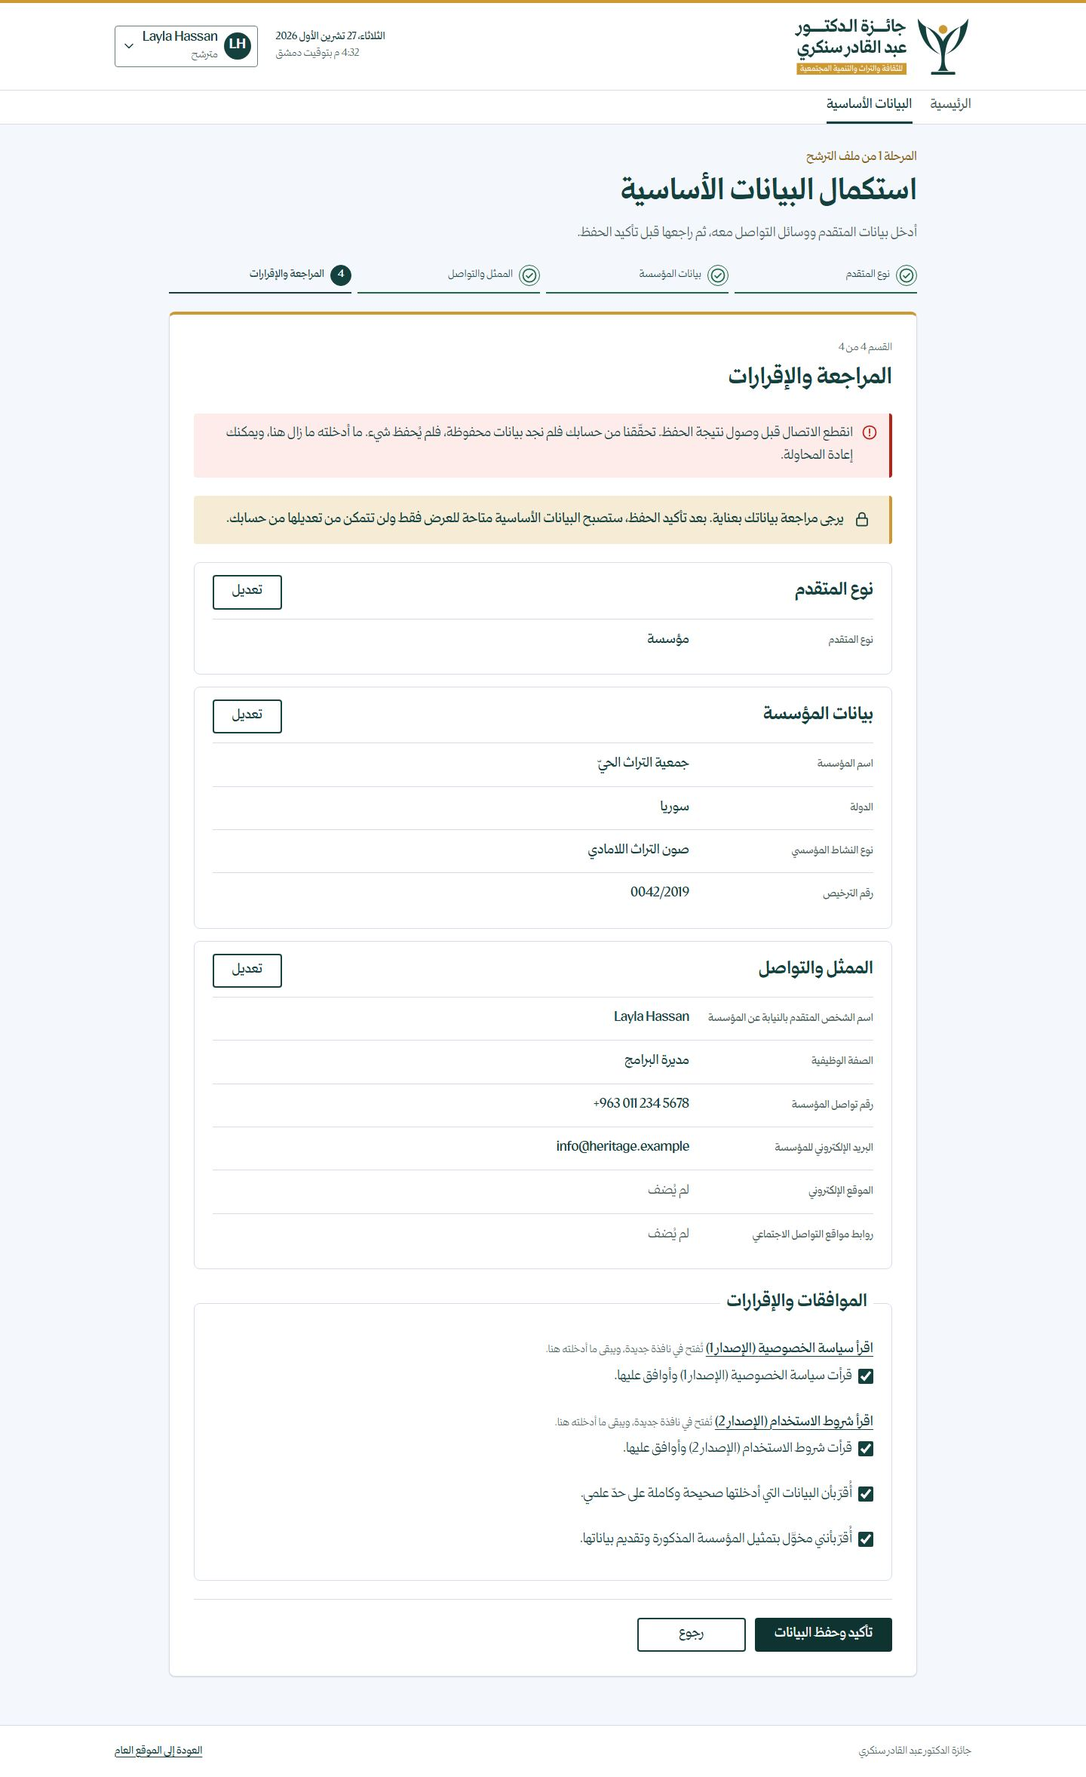
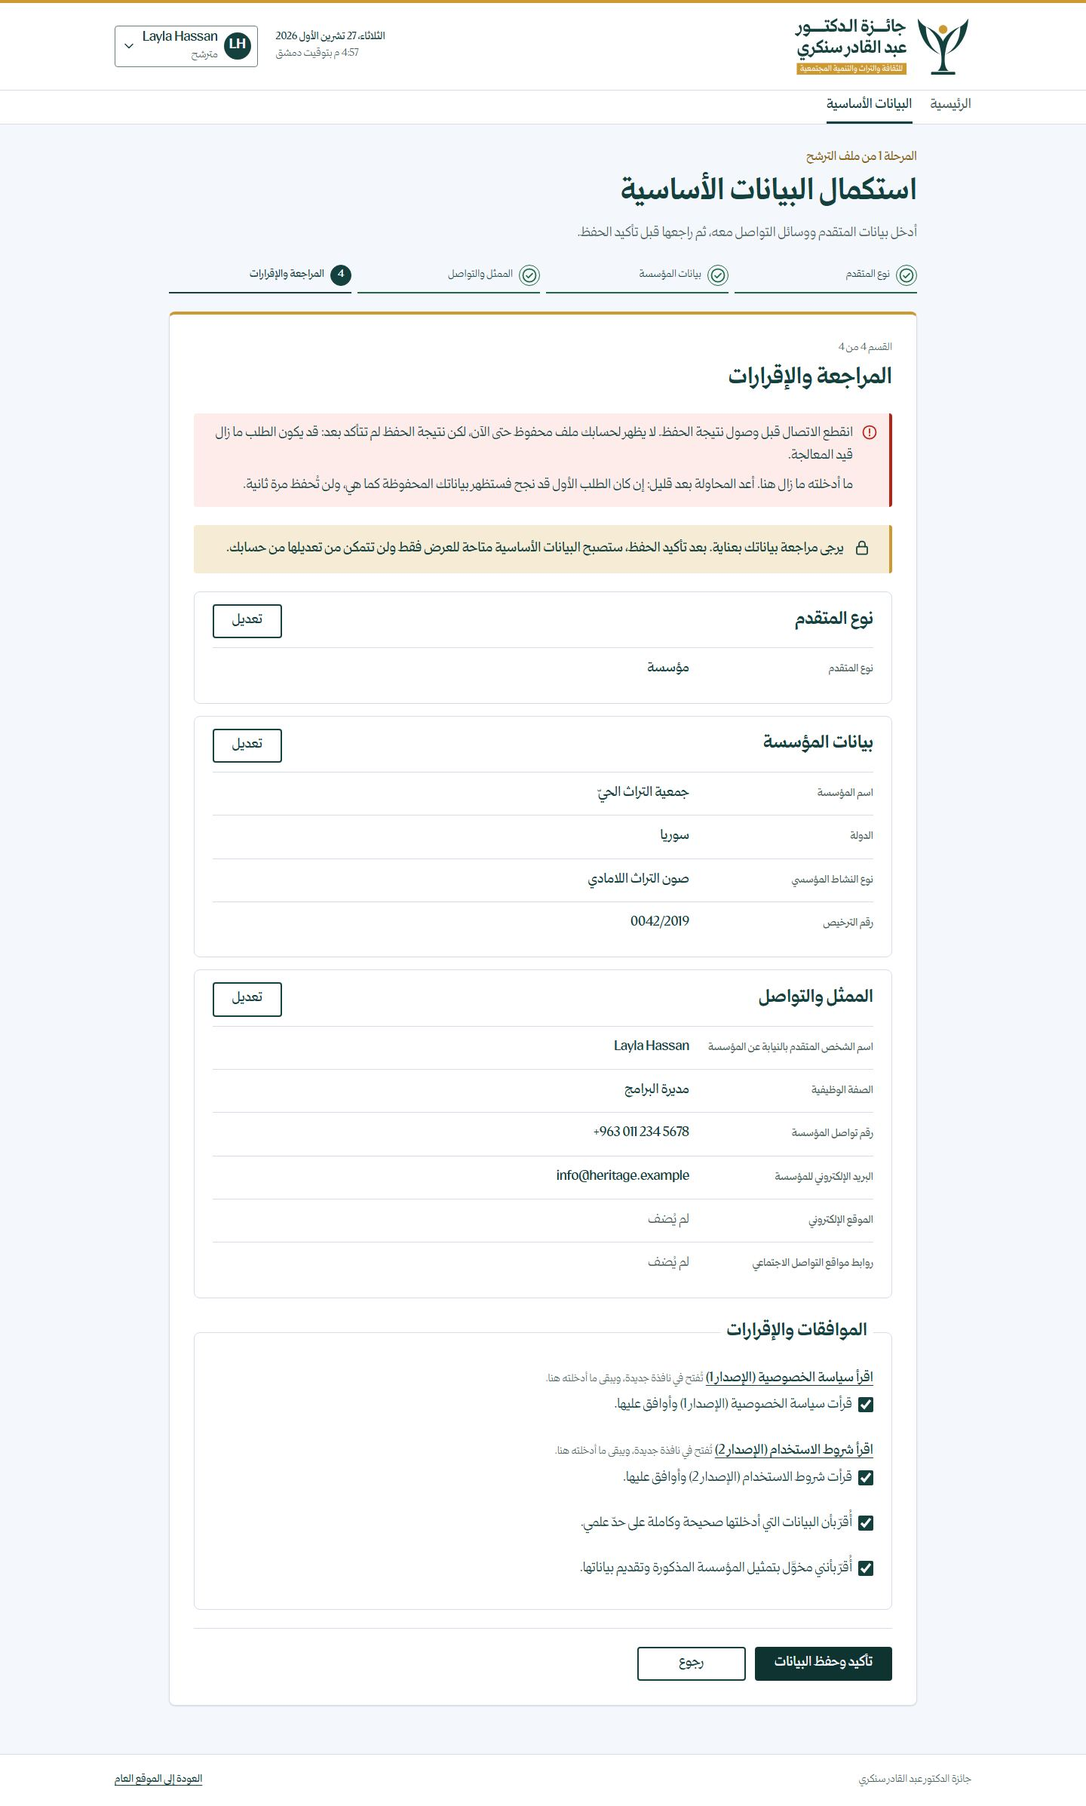
fix: bind candidate pages to the displayed account snapshot and keep in-flight saves unconfirmed
- account_context now travels with the signed-in account in /api/user;
  candidate pages never adopt one from a profile response. The overview
  and basic-profile reads require it (X-Candidate-Context) and the
  candidate.context middleware answers 409 account_mismatch before any
  profile or stage state is read, as it already did for /check and the
  confirmation. Pages without input refresh the account snapshot and are
  keyed by it, so B is shown coherently and never beneath A; an open form
  with input never switches account and keeps its input.
- An empty reconciliation read is no longer treated as "nothing saved":
  the original request may still commit. The form says no saved profile
  is visible yet and the result is unconfirmed, keeps the input, explains
  that a retry safely returns the stored profile, and the leave warning
  says the result is unconfirmed.
- Regressions for switching A to B before stage 1 opens (B without and
  with a completed profile) and for a save that commits after the
  reconciliation read; docs and screenshots.

diff --git a/frontend/src/pages/candidate/basic/BasicInformationForm.tsx b/frontend/src/pages/candidate/basic/BasicInformationForm.tsx
@@ -17,6 +17,10 @@ import { summaryFromForm } from './summaries'
 
 const LEAVE_WARNING = 'لم تُحفظ بياناتك الأساسية بعد. إذا غادرت هذه الصفحة فسيُحذف ما أدخلته. هل تريد المغادرة؟'
 
+/** After a save whose result is still unknown: it may or may not have been stored. */
+const LEAVE_WARNING_UNCONFIRMED =
+  'لم تتأكد بعد نتيجة حفظ بياناتك الأساسية: قد تكون حُفظت وقد لا تكون. إذا غادرت هذه الصفحة فلن يبقى ما أدخلته فيها، ويمكنك التحقق لاحقاً من لوحة المترشح. هل تريد المغادرة؟'
+
 export const LOCK_WARNING = 'يرجى مراجعة بياناتك بعناية. بعد تأكيد الحفظ، ستصبح البيانات الأساسية متاحة للعرض فقط ولن تتمكن من تعديلها من حسابك.'
 
 type Alert = { tone: 'error' | 'info'; content: ReactNode }
@@ -39,7 +43,7 @@ export function BasicInformationForm({
   user: User
   countries: Country[]
   requirements: Requirements
-  /** From GET /api/candidate/basic-profile when the form opened; never replaced. */
+  /** The account snapshot's context when the form opened (User.account_context); never replaced. */
   accountContext: string
   onRequirementsChange: (requirements: Requirements) => void
   onConfirmed: (profile: BasicProfile, alreadyStored: boolean) => void
@@ -55,6 +59,8 @@ export function BasicInformationForm({
   const [pendingType, setPendingType] = useState<ProfileType | null>(null)
   const [busy, setBusy] = useState(false)
   const [confirmed, setConfirmed] = useState(false)
+  // A save was sent but its outcome is not known yet (no terminal answer).
+  const [unconfirmedSave, setUnconfirmedSave] = useState(false)
   const busyRef = useRef(false)
   const headingRef = useRef<HTMLHeadingElement>(null)
   const firstStepRender = useRef(true)
@@ -62,7 +68,7 @@ export function BasicInformationForm({
   const steps = stepsFor(form.profileType)
   const step = steps[Math.min(stepIndex, steps.length - 1)]
   const dirty = !confirmed && (form.profileType !== '' || branchHasInput(form, 'individual', user.email) || branchHasInput(form, 'institution', user.email))
-  useLeaveWarning(dirty ? LEAVE_WARNING : null)
+  useLeaveWarning(dirty ? (unconfirmedSave ? LEAVE_WARNING_UNCONFIRMED : LEAVE_WARNING) : null)
 
   // Each new section starts at its heading, which is announced.
   useEffect(() => {
@@ -187,20 +193,31 @@ export function BasicInformationForm({
    */
   const reconcile = async () => {
     try {
-      const state = await api.get<{ data: BasicProfile | null; account_context: string }>('/api/candidate/basic-profile')
-      if (state.account_context !== accountContext) {
-        showAccountMismatch('تعذّر تأكيد نتيجة الحفظ، والحساب المسجّل دخوله الآن في هذا المتصفح غير الحساب الذي فُتح به النموذج.')
-        return
-      }
+      // Refused (409) if the browser is now signed in as another account.
+      const state = await api.get<{ data: BasicProfile | null }>('/api/candidate/basic-profile', { 'X-Candidate-Context': accountContext })
       if (state.data) {
         finish(state.data, true)
         return
       }
+      // Not a terminal answer: the original request may still be running on
+      // the server and commit after this read.
+      setUnconfirmedSave(true)
       setAlert({
         tone: 'error',
-        content: <p>انقطع الاتصال قبل وصول نتيجة الحفظ. تحقّقنا من حسابك فلم نجد بيانات محفوظة، فلم يُحفظ شيء. ما أدخلته ما زال هنا، ويمكنك إعادة المحاولة.</p>,
+        content: (
+          <>
+            <p>انقطع الاتصال قبل وصول نتيجة الحفظ. لا يظهر لحسابك ملف محفوظ حتى الآن، لكن نتيجة الحفظ لم تتأكد بعد: قد يكون الطلب ما زال قيد المعالجة.</p>
+            <p>ما أدخلته ما زال هنا. أعد المحاولة بعد قليل: إن كان الطلب الأول قد نجح فستظهر بياناتك المحفوظة كما هي، ولن تُحفظ مرة ثانية.</p>
+          </>
+        ),
       })
     } catch (error) {
+      if (error instanceof ApiError && error.code === 'account_mismatch') {
+        setUnconfirmedSave(true)
+        showAccountMismatch('تعذّر تأكيد نتيجة الحفظ، والحساب المسجّل دخوله الآن في هذا المتصفح غير الحساب الذي فُتح به النموذج.')
+        return
+      }
+      setUnconfirmedSave(true)
       const sessionEnded = error instanceof ApiError && error.status === 401
       setAlert({
         tone: 'error',
@@ -332,7 +349,7 @@ export function BasicInformationForm({
       return
     }
     if (error.code === 'email_unverified') {
-      void refreshUser().catch(() => undefined)
+      void refreshUser({ keepAccount: true }).catch(() => undefined)
       setAlert({ tone: 'error', content: <p>{error.message}</p> })
       return
     }

diff --git a/frontend/src/pages/candidate/basic/BasicInformationPage.tsx b/frontend/src/pages/candidate/basic/BasicInformationPage.tsx
@@ -5,14 +5,14 @@ import { api, errorMessage } from '../../../lib/api'
 import { Link } from '../../../lib/router'
 import { useRouter } from '../../../lib/useRouter'
 import { usePageTitle } from '../../auth/usePageTitle'
-import { formatDamascusDateTime } from '../candidateApi'
+import { contextHeader, formatDamascusDateTime } from '../candidateApi'
 import type { BasicProfile, Country, Requirements } from '../candidateApi'
 import { useAccountFailure } from '../useCandidateRequests'
 import { BasicInformationForm } from './BasicInformationForm'
 import { ProfileSummary } from './ProfileSummary'
 import { summaryFromProfile } from './summaries'
 
-type Loaded = { profile: BasicProfile | null; requirements: Requirements; countries: Country[]; accountContext: string }
+type Loaded = { profile: BasicProfile | null; requirements: Requirements; countries: Country[] }
 
 /**
  * Stage 1: the form until the basic information is confirmed, and a
@@ -30,14 +30,15 @@ export function BasicInformationPage({ user }: { user: User }) {
     setLoadError(null)
     try {
       const [state, reference] = await Promise.all([
-        api.get<{ data: BasicProfile | null; requirements: Requirements; account_context: string }>('/api/candidate/basic-profile'),
+        // Read for the account this page shows; refused (409) if another is signed in now.
+        api.get<{ data: BasicProfile | null; requirements: Requirements }>('/api/candidate/basic-profile', contextHeader(user)),
         api.get<{ countries: Country[] }>('/api/candidate/reference-data'),
       ])
-      setLoaded({ profile: state.data, requirements: state.requirements, countries: reference.countries, accountContext: state.account_context })
+      setLoaded({ profile: state.data, requirements: state.requirements, countries: reference.countries })
     } catch (error) {
       if (!handleAccountFailure(error)) setLoadError(errorMessage(error))
     }
-  }, [handleAccountFailure])
+  }, [handleAccountFailure, user])
 
   useEffect(() => {
     // Fetching on mount: the state is set once the requests settle.
@@ -100,7 +101,7 @@ export function BasicInformationPage({ user }: { user: User }) {
           user={user}
           countries={loaded.countries}
           requirements={loaded.requirements}
-          accountContext={loaded.accountContext}
+          accountContext={user.account_context}
           onRequirementsChange={(requirements) => setLoaded((current) => (current ? { ...current, requirements } : current))}
           onConfirmed={onConfirmed}
         />

diff --git a/frontend/src/lib/api.ts b/frontend/src/lib/api.ts
@@ -53,8 +53,9 @@ async function refreshCsrfCookie(): Promise<void> {
 
 type Method = 'GET' | 'POST'
 
-async function send(method: Method, url: string, body?: unknown): Promise<Response> {
+async function send(method: Method, url: string, body?: unknown, extraHeaders: Record<string, string> = {}): Promise<Response> {
   const headers: Record<string, string> = {
+    ...extraHeaders,
     Accept: 'application/json',
     'X-Requested-With': 'XMLHttpRequest',
   }
@@ -87,13 +88,13 @@ async function toError(response: Response): Promise<ApiError> {
   return new ApiError(response.status, message, payload.errors ?? {}, payload.code ?? null, payload)
 }
 
-async function request<T>(method: Method, url: string, body?: unknown): Promise<T> {
+async function request<T>(method: Method, url: string, body?: unknown, headers?: Record<string, string>): Promise<T> {
   if (method !== 'GET' && !readCookie('XSRF-TOKEN')) await refreshCsrfCookie()
 
-  let response = await send(method, url, body)
+  let response = await send(method, url, body, headers)
   if (response.status === 419 && method !== 'GET') {
     await refreshCsrfCookie()
-    response = await send(method, url, body)
+    response = await send(method, url, body, headers)
   }
   if (!response.ok) throw await toError(response)
   if (response.status === 204) return undefined as T
@@ -106,7 +107,7 @@ async function request<T>(method: Method, url: string, body?: unknown): Promise<
 }
 
 export const api = {
-  get: <T>(url: string) => request<T>('GET', url),
+  get: <T>(url: string, headers?: Record<string, string>) => request<T>('GET', url, undefined, headers),
   post: <T>(url: string, body: unknown = {}) => request<T>('POST', url, body),
 }
 

diff --git a/frontend/src/auth/AuthContext.tsx b/frontend/src/auth/AuthContext.tsx
@@ -1,8 +1,8 @@
-import { useCallback, useEffect, useMemo, useState } from 'react'
+import { useCallback, useEffect, useMemo, useRef, useState } from 'react'
 import type { ReactNode } from 'react'
 import { ApiError, api } from '../lib/api'
 import { AuthContext } from './useAuth'
-import type { User } from './useAuth'
+import type { RefreshOptions, RefreshResult, User } from './useAuth'
 
 type AuthOptions = {
   google: { available: boolean }
@@ -20,6 +20,11 @@ async function fetchUser(): Promise<User | null> {
 export function AuthProvider({ children }: { children: ReactNode }) {
   const [user, setUser] = useState<User | null | undefined>(undefined)
   const [googleAvailable, setGoogleAvailable] = useState(false)
+  // The account shown now, for refreshUser({ keepAccount: true }).
+  const current = useRef(user)
+  useEffect(() => {
+    current.current = user
+  }, [user])
 
   useEffect(() => {
     let active = true
@@ -37,8 +42,12 @@ export function AuthProvider({ children }: { children: ReactNode }) {
     }
   }, [])
 
-  const refreshUser = useCallback(async () => {
-    setUser(await fetchUser())
+  const refreshUser = useCallback(async (options: RefreshOptions = {}): Promise<RefreshResult> => {
+    const fresh = await fetchUser()
+    const shown = current.current
+    if (options.keepAccount && shown && fresh?.account_context !== shown.account_context) return 'account_changed'
+    setUser(fresh)
+    return 'updated'
   }, [])
 
   const logout = useCallback(async () => {

diff --git a/frontend/src/pages/candidate/CandidateLayout.tsx b/frontend/src/pages/candidate/CandidateLayout.tsx
@@ -1,6 +1,7 @@
 import type { ReactNode } from 'react'
 import logo from '../../assets/brand/logo-horizontal-light-bg.svg'
 import type { User } from '../../auth/useAuth'
+import { FormAlert } from '../../components/forms/FormControls'
 import { Link } from '../../lib/router'
 import { useRouter } from '../../lib/useRouter'
 import '../auth/auth.css'
@@ -54,7 +55,16 @@ export function CandidateLayout({ user, children }: { user: User; children: Reac
         </nav>
       </header>
       <main id="main" tabIndex={-1} className="candidate-main">
-        <div className="container">{children}</div>
+        <div className="container">
+          {new URLSearchParams(location.search).get('account') === 'changed' && (
+            <div className="candidate-page candidate-page--notice">
+              <FormAlert tone="info">
+                <p>تغيّر الحساب المسجّل دخوله في هذا المتصفح، فحدّثنا الصفحة لتعرض الحساب الحالي وبياناته.</p>
+              </FormAlert>
+            </div>
+          )}
+          {children}
+        </div>
       </main>
       <footer className="candidate-footer">
         <div className="candidate-footer__inner container">

diff --git a/frontend/src/auth/useAuth.ts b/frontend/src/auth/useAuth.ts
@@ -9,7 +9,22 @@ export type User = {
   google_linked: boolean
   /** Holds the «مترشح» classification (assigned by the backend only). */
   is_candidate: boolean
+  /**
+   * Opaque value identifying this account snapshot. Candidate pages send it
+   * back, so the server refuses requests made while the page shows another
+   * account than the one signed in.
+   */
+  account_context: string
 }
+
+/**
+ * keepAccount: only accept a refreshed account if it is still the same one
+ * (an open form with unsaved input must not be moved to another account).
+ */
+export type RefreshOptions = { keepAccount?: boolean }
+
+/** 'account_changed' when keepAccount found another account signed in (nothing was updated). */
+export type RefreshResult = 'updated' | 'account_changed'
 
 /** Where a signed-in account belongs: the candidate dashboard or the account page. */
 export function homeFor(user: Pick<User, 'is_candidate'>): string {
@@ -21,7 +36,7 @@ export type AuthValue = {
   user: User | null | undefined
   googleAvailable: boolean
   setUser: (user: User | null) => void
-  refreshUser: () => Promise<void>
+  refreshUser: (options?: RefreshOptions) => Promise<RefreshResult>
   logout: () => Promise<void>
 }
 

diff --git a/frontend/src/pages/candidate/VerifyEmailNotice.tsx b/frontend/src/pages/candidate/VerifyEmailNotice.tsx
@@ -34,9 +34,14 @@ export function VerifyEmailNotice({ context }: { context: 'dashboard' | 'form' }
     setBusy('check')
     setResult(null)
     try {
-      await refreshUser()
-      // Still shown means still unverified.
-      setResult({ tone: 'info', text: 'لم يُؤكَّد البريد الإلكتروني بعد. افتح الرابط الذي أرسلناه إليه، ثم أعد التحقق.' })
+      // In the form, never move unsaved input to another account signed in meanwhile.
+      const outcome = await refreshUser({ keepAccount: context === 'form' })
+      setResult(
+        outcome === 'account_changed'
+          ? { tone: 'error', text: 'تغيّر الحساب المسجّل دخوله في هذا المتصفح، فلم نحدّث هذه الصفحة حتى لا يضيع ما أدخلته أو يُنسب إلى حساب آخر.' }
+          : // Still shown means still unverified.
+            { tone: 'info', text: 'لم يُؤكَّد البريد الإلكتروني بعد. افتح الرابط الذي أرسلناه إليه، ثم أعد التحقق.' },
+      )
     } catch (error) {
       setResult({ tone: 'error', text: errorMessage(error) })
     } finally {

diff --git a/frontend/src/pages/candidate/useCandidateRequests.ts b/frontend/src/pages/candidate/useCandidateRequests.ts
@@ -7,7 +7,10 @@ import { useRouter } from '../../lib/useRouter'
  * Shared handling of the candidate endpoints' account failures, as on the
  * account page: an ended session (401) or a disabled account goes to the
  * sign-in page, and a lost classification (not_candidate) reloads the
- * account. Returns true when the error was handled.
+ * account. A page that still showed another account than the one signed in
+ * now (account_mismatch) reloads the account snapshot, so the page is shown
+ * again for the current account, coherently. Returns true when the error was
+ * handled.
  *
  * Forms with unsaved input do not use this for their submissions: they keep
  * the input and explain how to continue instead (see BasicInformationForm).
@@ -31,6 +34,12 @@ export function useAccountFailure() {
       }
       if (error.code === 'not_candidate') {
         void refreshUser().catch(() => undefined)
+        return true
+      }
+      if (error.code === 'account_mismatch') {
+        void refreshUser()
+          .then(() => navigate(`${location.pathname}?account=changed`, { replace: true }))
+          .catch(() => undefined)
         return true
       }
       return false

diff --git a/frontend/src/pages/candidate/DashboardPage.tsx b/frontend/src/pages/candidate/DashboardPage.tsx
@@ -6,6 +6,7 @@ import { Link } from '../../lib/router'
 import { useRouter } from '../../lib/useRouter'
 import { usePageTitle } from '../auth/usePageTitle'
 import { formatDamascusDateTime, PROFILE_TYPE_LABELS } from './candidateApi'
+import { contextHeader } from './candidateApi'
 import type { Overview } from './candidateApi'
 import { useAccountFailure } from './useCandidateRequests'
 import { VerifyEmailNotice } from './VerifyEmailNotice'
@@ -27,11 +28,11 @@ export function DashboardPage({ user }: { user: User }) {
   const load = useCallback(async () => {
     setLoadError(null)
     try {
-      setOverview((await api.get<{ data: Overview }>('/api/candidate/overview')).data)
+      setOverview((await api.get<{ data: Overview }>('/api/candidate/overview', contextHeader(user))).data)
     } catch (error) {
       if (!handleAccountFailure(error)) setLoadError(errorMessage(error))
     }
-  }, [handleAccountFailure])
+  }, [handleAccountFailure, user])
 
   useEffect(() => {
     // Fetching on mount: the state is set once the request settles.

diff --git a/frontend/src/pages/candidate/candidateApi.ts b/frontend/src/pages/candidate/candidateApi.ts
@@ -3,6 +3,8 @@
  * prefix /api/candidate). Every endpoint concerns the signed-in account only.
  */
 
+import type { User } from '../../auth/useAuth'
+
 export type ProfileType = 'individual' | 'institution'
 
 export type StageStatus = 'not_started' | 'completed' | 'unavailable'
@@ -82,6 +84,14 @@ export const POLICY_NAMES: Record<PolicyCode, string> = {
 export const GENDER_LABELS = { male: 'ذكر', female: 'أنثى' } as const
 
 export const PROFILE_TYPE_LABELS: Record<ProfileType, string> = { individual: 'فرد', institution: 'مؤسسة' }
+
+/**
+ * The header candidate reads carry: the account the page shows. The server
+ * answers 409 account_mismatch if another account is signed in now.
+ */
+export function contextHeader(user: Pick<User, 'account_context'>): Record<string, string> {
+  return { 'X-Candidate-Context': user.account_context }
+}
 
 /** Dates and times are stored in UTC and shown in Damascus time. */
 export const DAMASCUS_TIME_ZONE = 'Asia/Damascus'

diff --git a/frontend/src/pages/candidate/CandidateApp.tsx b/frontend/src/pages/candidate/CandidateApp.tsx
@@ -45,7 +45,12 @@ export function CandidateApp() {
 
   return (
     <CandidateLayout user={user}>
-      {location.pathname === '/dashboard/basic-information' ? <BasicInformationPage user={user} /> : <DashboardPage user={user} />}
+      {/* Keyed by the account snapshot: another account never inherits a page's state. */}
+      {location.pathname === '/dashboard/basic-information' ? (
+        <BasicInformationPage key={user.account_context} user={user} />
+      ) : (
+        <DashboardPage key={user.account_context} user={user} />
+      )}
     </CandidateLayout>
   )
 }

diff --git a/frontend/src/pages/candidate/candidate.css b/frontend/src/pages/candidate/candidate.css
@@ -953,3 +953,8 @@
   margin-block-start: var(--sa-space-5);
   white-space: pre-line;
 }
+
+/* The notice shown after the page switched to the account signed in now. */
+.candidate-page--notice {
+  margin-block-end: var(--sa-space-5);
+}
